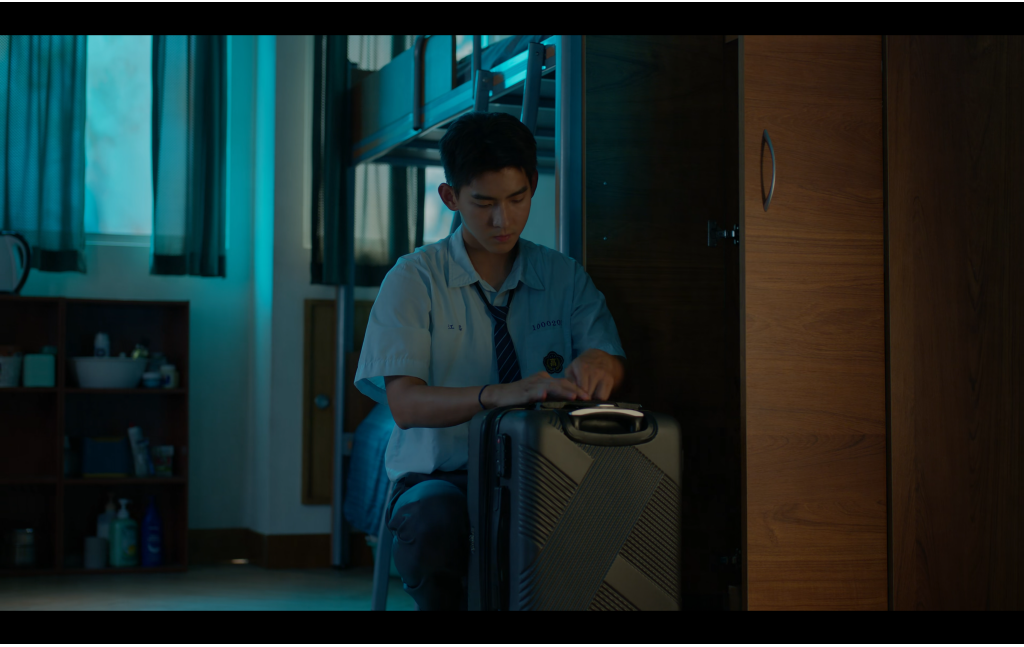
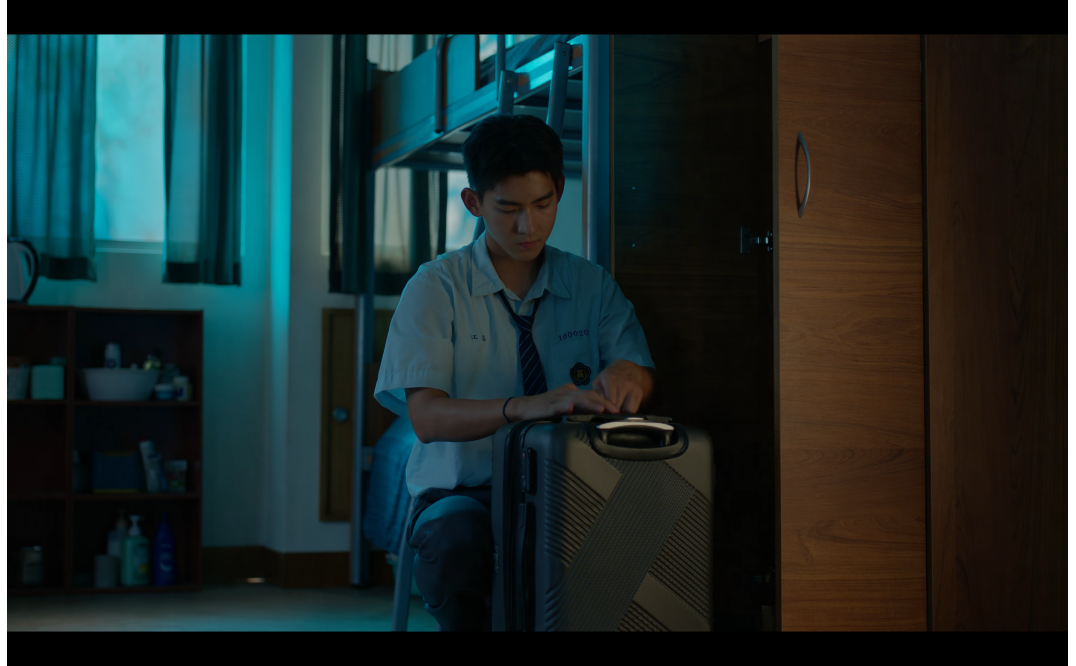
2026年06月08日05时 更新

diff --git a/src/qigua/divination_panel.py b/src/qigua/divination_panel.py
@@ -81,7 +81,8 @@ from ..settings.config_manager import config_manager
 
 from .bagua import GuaResult, COIN_TO_YAO, YARROW_TO_YAO
 from .hexagram_drawer import HexagramDrawer
-from .hexagram_calc import calc_three_numbers, calc_from_yang_lines, calc_six_lines
+from .hexagram_calc import calc_three_numbers, calc_from_yang_lines, calc_six_lines, _yang_to_xiantian
+from .hexagram_loader import load_all_gua, get_gua_by_xiantian
 from .countdown_timer import CountdownDialog
 from .stopwatch_timer import StopwatchDialog
 
@@ -118,6 +119,27 @@ _PRIMARY_BTN = """
     border: none; border-radius: 6px; background: #007aff;
     font-weight: bold; color: #ffffff;
 """
+
+
+def _is_light_color(hex_color: str) -> bool:
+    """
+    判断 hex 颜色是否为亮色（用于决定深色/浅色模式）
+
+    将 hex 颜色转为 RGB，计算相对亮度。亮度 > 128 视为"亮色"→ 深色模式。
+
+    Args:
+        hex_color: CSS hex 颜色字符串，如 "#1d1d1f" 或 "#ffffff"
+
+    Returns:
+        True: 亮色文字 → 深色背景模式
+        False: 暗色文字 → 浅色背景模式
+    """
+    hex_color = hex_color.lstrip("#")
+    if len(hex_color) < 6:
+        return False
+    r, g, b = int(hex_color[0:2], 16), int(hex_color[2:4], 16), int(hex_color[4:6], 16)
+    luminance = 0.299 * r + 0.587 * g + 0.114 * b
+    return luminance > 128
 
 
 class _DotButton(QPushButton):
@@ -177,6 +199,42 @@ class _DotButton(QPushButton):
             QPushButton {{ background: {bg}; border: 2px solid {border}; border-radius: 7px; }}
             QPushButton:hover {{ border-color: {self._COLOR}; }}
         """)
+
+
+class _GuaPickerPopup(QWidget):
+    """
+    卦选择弹窗 — Popup 窗口，点击外部自动关闭
+
+    关闭时自动恢复标题按钮的 Lock 禁用状态 + 清理面板引用。
+
+    Parameters:
+        picker: QListWidget — 已构建好的卦列表控件
+        was_enabled: bool — 弹出前标题按钮的启用状态（Lock OFF=True, Lock ON=False）
+        title_btn: QPushButton — 标题按钮引用，用于关闭时恢复状态
+        panel: QiguaPanel — 面板引用，用于关闭时清理 _gua_picker
+    """
+
+    def __init__(self, picker, was_enabled, title_btn, panel, parent=None):
+        super().__init__(None)  # 必须无 parent，否则不是顶层 Popup 窗口
+        self._was_enabled = was_enabled
+        self._title_btn = title_btn
+        self._panel = panel
+        self.setWindowFlags(
+            Qt.WindowType.Popup | Qt.WindowType.FramelessWindowHint
+        )
+        self.setAttribute(Qt.WidgetAttribute.WA_ShowWithoutActivating)
+
+        layout = QVBoxLayout(self)
+        layout.setContentsMargins(0, 0, 0, 0)
+        layout.addWidget(picker)
+
+    def closeEvent(self, event):
+        """关闭弹窗时恢复 Lock 状态 + 清理面板引用"""
+        if not self._was_enabled and self._title_btn is not None:
+            self._title_btn.setEnabled(False)
+        if self._panel is not None:
+            self._panel._gua_picker = None
+        super().closeEvent(event)
 
 
 class QiguaPanel(QWidget):
@@ -452,6 +510,8 @@ class QiguaPanel(QWidget):
         self._title_label.setFlat(True)
         self._title_label.setCursor(Qt.CursorShape.PointingHandCursor)
         self._title_label.setFixedHeight(lh)
+        # eventFilter 捕获鼠标按下 → 确保弹出菜单（比 clicked 信号更可靠）
+        self._title_label.installEventFilter(self)
         # 按实际字号计算文本宽度，避免大字号下被裁剪
         title_font = QFont()
         title_font.setPointSize(self._font_size + 4)
@@ -1443,7 +1503,7 @@ class QiguaPanel(QWidget):
         调用时机：__init__() 中调用，仅一次
         """
         self._btn_group.buttonClicked.connect(self._on_dot_clicked)
-        self._title_label.clicked.connect(self._on_calc)
+        # title_label 已通过 installEventFilter 处理，见 eventFilter()
         self._drawer.line_toggled.connect(self._on_drawer_toggled)
 
     # ═══════════════════════════════════════════════════════════
@@ -2079,6 +2139,198 @@ class QiguaPanel(QWidget):
                         break
                 combo.blockSignals(False)
         self._sync_coin_yarrow_display()
+
+    # ═══════════════════════════════════════════════════════════
+    #  事件过滤（确保弹出菜单在 macOS 下可靠触发）
+    # ═══════════════════════════════════════════════════════════
+
+    def eventFilter(self, obj, event):
+        """拦截 _title_label 的鼠标按下事件 → 弹出卦选择列表"""
+        from PySide6.QtCore import QEvent
+        if obj is self._title_label and event.type() == QEvent.Type.MouseButtonPress:
+            self._show_gua_picker()
+            return True
+        return super().eventFilter(obj, event)
+
+    # ═══════════════════════════════════════════════════════════
+    #  卦名弹出菜单
+    # ═══════════════════════════════════════════════════════════
+
+    def _show_gua_picker(self):
+        """
+        点击「起卦」标题 → 弹出可滚动的 64 卦选择列表
+
+        列表格式：01 ☰ 乾为天  02 ☷ 坤为地  ...
+        每次最多显示 10 行，超出滚动。
+        选中后：跳转到对应卦象，动爻设置保持不变。
+        点击列表外部自动关闭。
+        """
+        from PySide6.QtWidgets import QListWidget, QListWidgetItem
+
+        all_gua = load_all_gua()
+        if not all_gua:
+            return
+
+        # 强制启用标题按钮（Lock 状态下按钮被禁用）
+        was_enabled = self._title_label.isEnabled()
+        if not was_enabled:
+            self._title_label.setEnabled(True)
+
+        # 计算尺寸
+        row_h = self._font_size * 2 + 10  # 每行高度（含上下 padding）
+        visible_rows = min(10, len(all_gua))
+        list_w = 320  # 列表宽度
+
+        # ── 根据当前主题计算弹窗颜色 ──
+        # 文字颜色亮 → 深色模式；文字颜色暗 → 浅色模式
+        tc = self._text_color
+        is_dark = _is_light_color(tc)
+        if is_dark:
+            bg = "#2c2c2e"
+            border_c = "#555555"
+            hover_bg = "#3a3a3c"
+            scroll_handle = "#555555"
+            item_text = "#f0f0f0"
+        else:
+            bg = "#ffffff"
+            border_c = "#cccccc"
+            hover_bg = "#f0f0f5"
+            scroll_handle = "#cccccc"
+            item_text = "#1d1d1f"
+
+        # ── 列表控件 ──
+        picker = QListWidget()
+        picker.setFrameShape(QFrame.Shape.NoFrame)
+        picker.setHorizontalScrollBarPolicy(Qt.ScrollBarPolicy.ScrollBarAlwaysOff)
+        picker.setVerticalScrollBarPolicy(Qt.ScrollBarPolicy.ScrollBarAsNeeded)
+        picker.setFixedSize(list_w, row_h * visible_rows + 4)
+        picker.setStyleSheet(f"""
+            QListWidget {{
+                background: {bg};
+                border: 1px solid {border_c};
+                border-radius: 6px;
+                font-size: {self._font_size}px;
+                color: {item_text};
+            }}
+            QListWidget::item {{
+                padding: 5px 12px;
+                height: {row_h}px;
+            }}
+            QListWidget::item:selected {{
+                background: #007aff;
+                color: #ffffff;
+            }}
+            QListWidget::item:hover {{
+                background: {hover_bg};
+            }}
+            QScrollBar:vertical {{
+                width: 8px;
+                background: transparent;
+            }}
+            QScrollBar::handle:vertical {{
+                background: {scroll_handle};
+                border-radius: 4px;
+                min-height: 30px;
+            }}
+            QScrollBar::add-line:vertical, QScrollBar::sub-line:vertical {{
+                height: 0;
+            }}
+        """)
+
+        sorted_ids = sorted(all_gua.keys())
+        for gid in sorted_ids:
+            data = all_gua[gid]
+            item = QListWidgetItem(f"{gid:02d}  {data.get('symbol', '')} {data.get('full_name', '?')}")
+            item.setData(Qt.ItemDataRole.UserRole, gid)
+            picker.addItem(item)
+
+        picker.itemClicked.connect(
+            lambda item: self._on_picker_selected(item, picker, was_enabled)
+        )
+
+        # ── 包装到 Popup 弹窗中（处理关闭事件）──
+        popup = _GuaPickerPopup(picker, was_enabled, self._title_label, self)
+        # 保持引用防止 GC 回收（Popup 窗口必须被引用才能持续显示）
+        self._gua_picker = popup
+        # 弹出在标题按钮左下方
+        pos = self._title_label.mapToGlobal(self._title_label.rect().bottomLeft())
+        screen = self.screen()
+        if screen:
+            screen_bottom = screen.availableGeometry().bottom()
+            if pos.y() + picker.height() > screen_bottom:
+                pos.setY(screen_bottom - picker.height())
+        popup.move(pos)
+        popup.show()
+
+    def _on_picker_selected(self, item, picker, was_enabled):
+        """
+        列表项被点击 → 提取卦 ID → 关闭弹窗 → 跳转卦象
+
+        Parameters:
+            item: QListWidgetItem — 被点击的列表项
+            picker: QListWidget — 弹出列表控件
+            was_enabled: bool — Lock 状态恢复
+        """
+        gua_id = item.data(Qt.ItemDataRole.UserRole)
+        # 关闭弹窗窗口（picker 的顶层 Popup 窗口）
+        popup = picker.window()
+        if popup:
+            popup.close()
+        # 恢复 Lock 状态
+        if not was_enabled:
+            self._title_label.setEnabled(False)
+        if gua_id is not None:
+            self._on_gua_picked(gua_id)
+
+    def _on_gua_picked(self, gua_id: int):
+        """
+        用户从菜单选中某卦 → 跳转到该卦，保持当前动爻不变
+
+        Parameters:
+            gua_id: 卦 ID (1-64)
+        """
+        all_gua = load_all_gua()
+        data = all_gua.get(gua_id)
+        if not data:
+            return
+
+        binary = data.get("binary", "000000")
+        yang = [c == "1" for c in binary]
+
+        # 更新卦图
+        self._drawer.set_lines(yang)
+
+        # 保持 _changing_lines 不变，重新计算变卦
+        lower_num = _yang_to_xiantian(yang[:3])
+        upper_num = _yang_to_xiantian(yang[3:])
+
+        # 构建变卦
+        bian_gua = None
+        changing_list = sorted(self._changing_lines)
+        if changing_list:
+            new_binary = list(binary)
+            for cl in changing_list:
+                idx = cl - 1
+                new_binary[idx] = "0" if binary[idx] == "1" else "1"
+            new_binary = "".join(new_binary)
+            new_lower = _yang_to_xiantian([c == "1" for c in new_binary[:3]])
+            new_upper = _yang_to_xiantian([c == "1" for c in new_binary[3:]])
+            bian_gua = get_gua_by_xiantian(new_upper, new_lower)
+
+        result = GuaResult(
+            ben_gua=data,
+            bian_gua=bian_gua,
+            lower_num=lower_num,
+            upper_num=upper_num,
+            changing_line=changing_list[0] if changing_list else 0,
+            changing_lines=changing_list,
+        )
+
+        # 同步动爻到所有面板控件
+        self._sync_controls_to_changing_lines()
+
+        # 显示结果
+        self._show_result(result)
 
     # ═══════════════════════════════════════════════════════════
     #  统一计算入口

diff --git a/src/settings/appearance_manager.py b/src/settings/appearance_manager.py
@@ -149,6 +149,16 @@ def _scale_and_cache_image(image_path: str, opacity: int = 100,
         else:
             canvas_w, canvas_h = 2560, 1600
 
+    # 缓存命中检测 — 源文件未变 + 尺寸匹配 → 跳过重新缩放（启动加速）
+    if os.path.isfile(_BG_CACHE):
+        cache_mtime = os.path.getmtime(_BG_CACHE)
+        src_mtime = os.path.getmtime(image_path)
+        cache_pix = QPixmap(_BG_CACHE)
+        if not cache_pix.isNull():
+            cache_size_ok = (cache_pix.width() == canvas_w and cache_pix.height() == canvas_h)
+            if cache_mtime >= src_mtime and cache_size_ok:
+                return _BG_CACHE
+
     canvas = QPixmap(canvas_w, canvas_h)
     canvas.fill(Qt.GlobalColor.transparent)
 
@@ -271,6 +281,13 @@ def apply_appearance(main_window) -> None:
           f"遮罩={overlay_alpha}/{ov_str}, "
           f"图片={'有' if has_bg_image else '无'}")
 
+    # 暂停 resize timer，防止本次处理触发 resize 导致重入
+    _resize_timer = getattr(main_window, "_resize_timer", None)
+    if _resize_timer:
+        _resize_timer.stop()
+    # 设置标志位，让 resizeEvent 知道这是程序触发的 resize
+    main_window._applying_appearance = True
+
     # ── 1. 全局字体（QApplication 级别，所有 Widget 的默认字体）──
     app = QApplication.instance()
     if app:
@@ -379,9 +396,10 @@ def apply_appearance(main_window) -> None:
         """)
         for i in range(tab.count()):
             page = tab.widget(i)
-            # tab_settings 通过 WA_TranslucentBackground 实现透明，
-            # 不能用 QSS background: transparent（会传播到右侧 ScrollArea viewport）
-            if page and page.objectName() != "tab_settings":
+            if page:
                 page.setStyleSheet("background: transparent;")
 
     # 状态栏使用固定深灰色背景+白字，无需随外观联动刷新
+
+    # 清除标志位，允许 resizeEvent 恢复响应
+    main_window._applying_appearance = False

diff --git a/src/main_window.py b/src/main_window.py
@@ -30,8 +30,16 @@ class MainWindow(QMainWindow):
     def resizeEvent(self, event):
         """窗口大小改变时，防抖重新渲染背景图片缓存"""
         super().resizeEvent(event)
+        if getattr(self, "_applying_appearance", False):
+            return
         if hasattr(self, "_resize_timer"):
-            self._resize_timer.start()
+            # 首次 resize（窗口刚显示）→ 立即渲染，后续 resize → 300ms 防抖
+            if getattr(self, "_initial_appearance_applied", False):
+                self._resize_timer.start()
+            else:
+                self._resize_timer.stop()
+                apply_appearance(self)
+                self._initial_appearance_applied = True
 
     def _load_ui(self):
         """加载 .ui 文件，提取布局和属性"""
@@ -64,9 +72,6 @@ class MainWindow(QMainWindow):
         self._bazhai = BazhaiTab(self)
         self._cases = CaseManager(self)
         self._settings = SettingsTab(self)
-
-        # 首次启动无配置 → 默认值自动生成；有配置 → 读取并应用
-        apply_appearance(self)
 
         # 窗口大小改变时重新渲染背景图片（300ms 防抖）
         self._resize_timer = QTimer(self)
